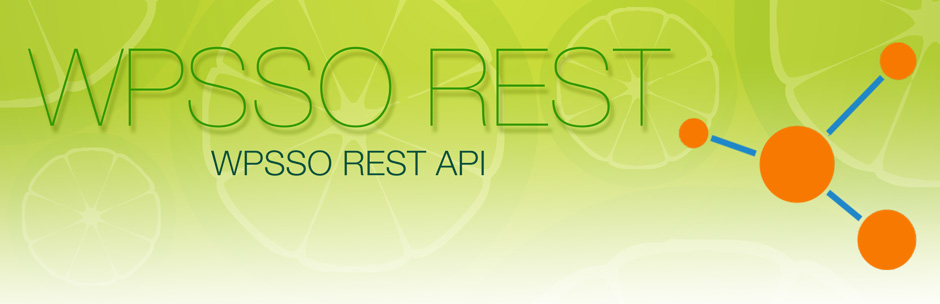
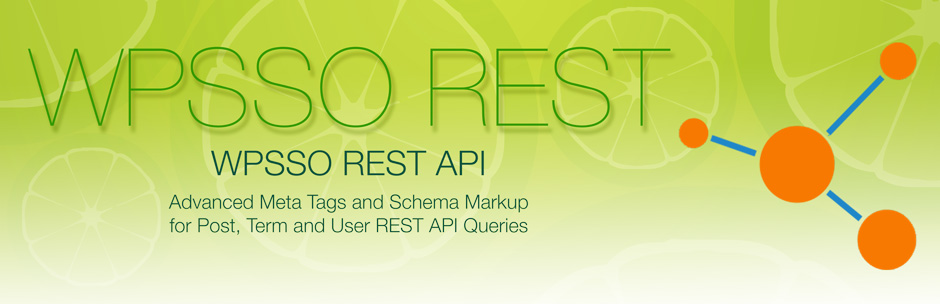
non-essential support files (documentation and assets)

Changed region(s): [[0.1851, 0.6217, 0.5553, 0.7697]]

diff --git a/index.html b/index.html
@@ -25,11 +25,11 @@
         </ul>
       </header>
       <section>
-<h1>WPSSO REST API</h1><h3>Advanced Meta Tags and Schema Markup in Post, Term, and User REST API Queries</h3>
+<h1>WPSSO REST API</h1><h3>Advanced Meta Tags and Schema Markup for Post, Term and User REST API Queries</h3>
 
 <table>
 <tr><th align="right" valign="top" nowrap>Plugin Name</th><td>WPSSO REST API</td></tr>
-<tr><th align="right" valign="top" nowrap>Summary</th><td>WPSSO Core add-on offers an array of meta tags and Schema markup in the WordPress REST API post, term, and user queries.</td></tr>
+<tr><th align="right" valign="top" nowrap>Summary</th><td>WPSSO Core add-on offers an array of meta tags and Schema markup in the WordPress REST API post, term and user queries.</td></tr>
 <tr><th align="right" valign="top" nowrap>Stable Version</th><td>1.2.0</td></tr>
 <tr><th align="right" valign="top" nowrap>Requires At Least</th><td>WordPress 4.7</td></tr>
 <tr><th align="right" valign="top" nowrap>Tested Up To</th><td>WordPress 5.0</td></tr>
@@ -56,7 +56,7 @@
 
 <p>WPSSO REST API (aka WPSSO REST) is an add-on for the <a href="https://wordpress.org/plugins/wpsso/">WPSSO Core plugin</a> (Free or Pro version).</p>
 
-<p>The <a href="https://wordpress.org/plugins/wpsso-schema-json-ld/">WPSSO Schema JSON-LD Markup add-on</a> (Free or Pro version) is recommended to get the most complete meta tags and Schema JSON-LD markup for post, term, and user queries.</p>
+<p>The <a href="https://wordpress.org/plugins/wpsso-schema-json-ld/">WPSSO Schema JSON-LD Markup add-on</a> (Free or Pro version) is recommended to get the most complete meta tags and Schema JSON-LD markup for post, term and user queries.</p>
 
 <h3>REST API Query Result Example</h3>
 
